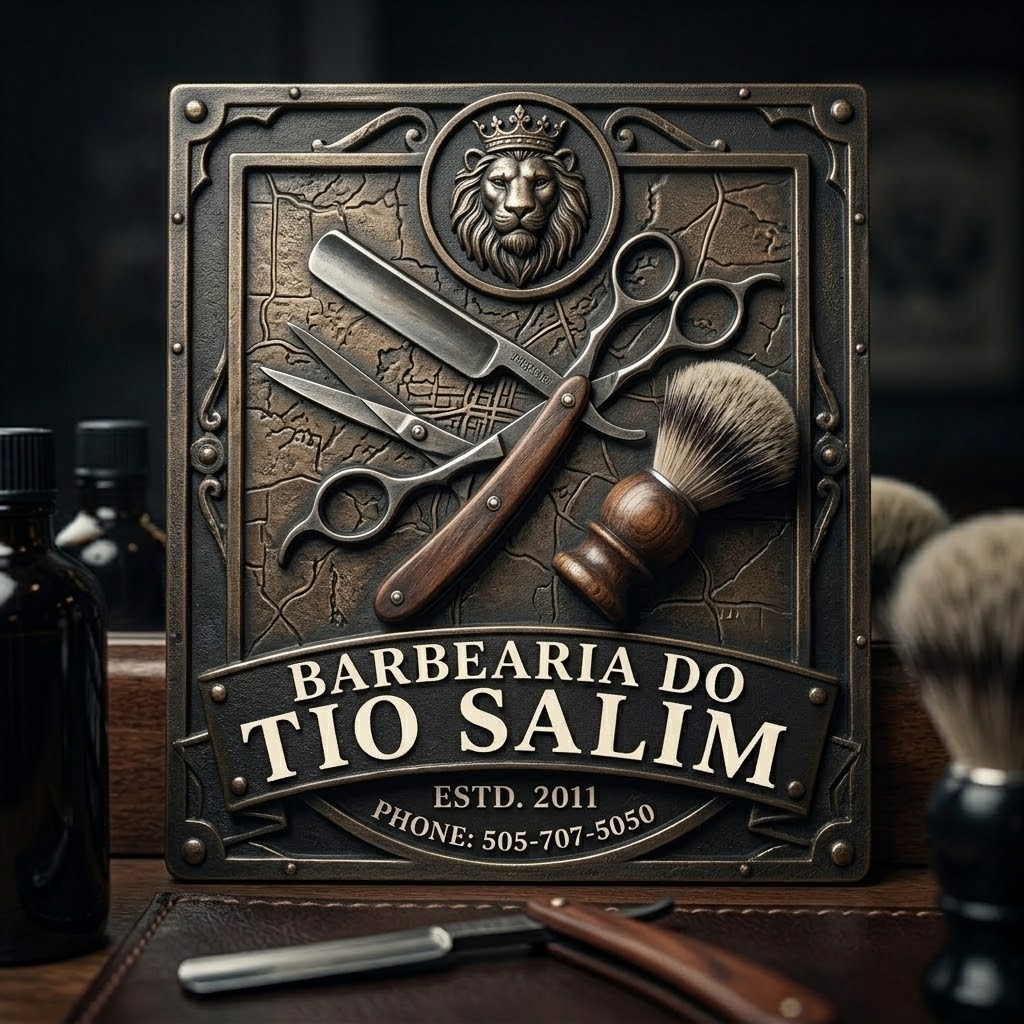
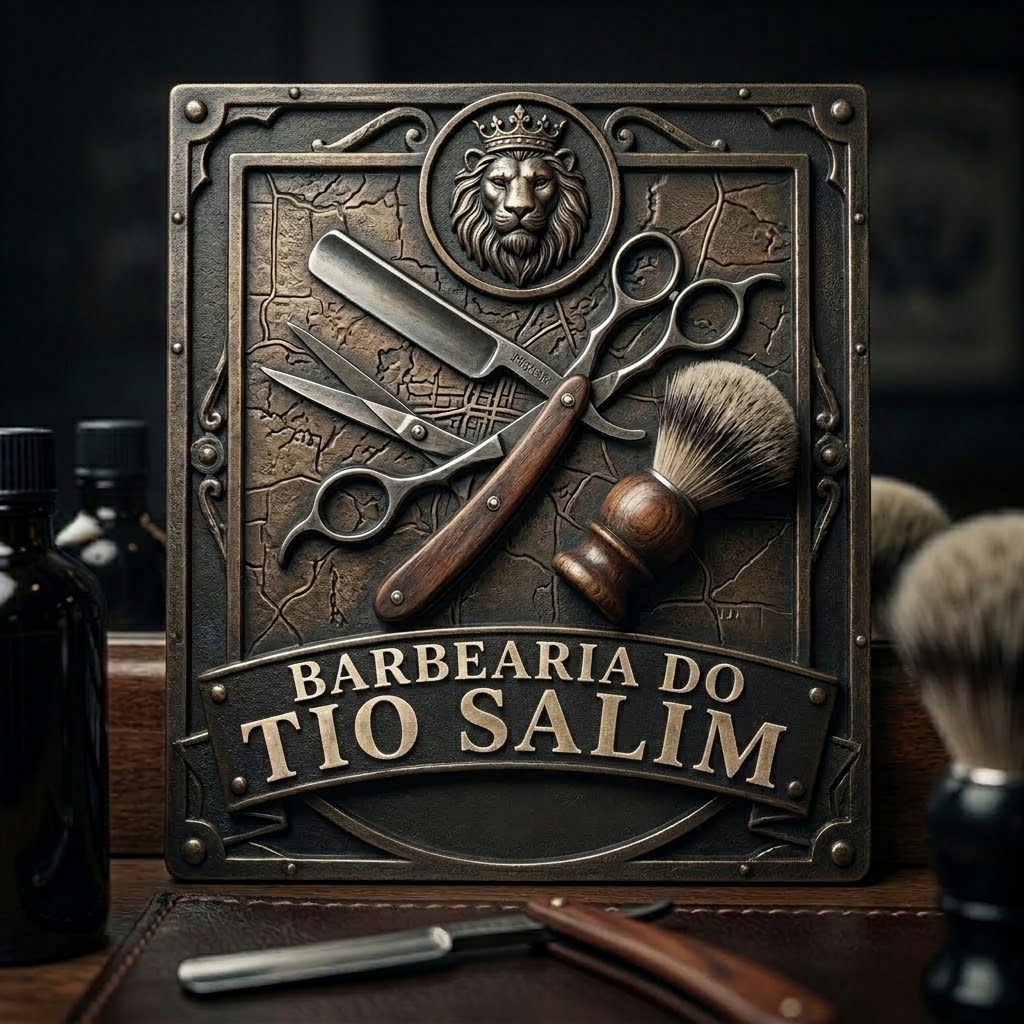
Corrige imagens da hero e ordem do carrossel no mobile
- Substitui hero-bg/hero-bg-2 pelas versões sem texto indevido
- No grid de serviços, texto passa a vir antes da foto correspondente em telas mobile

diff --git a/site/styles.css b/site/styles.css
@@ -448,7 +448,10 @@ a { color: inherit; text-decoration: none; }
   .topnav { justify-content: center; text-align: center; }
   .topnav__links { justify-content: center; }
   .services__grid { grid-template-columns: 1fr; }
-  .services__media, .services__text { order: initial; }
+  .services__grid > *:nth-child(1) { order: 2; }
+  .services__grid > *:nth-child(2) { order: 1; }
+  .services__grid > *:nth-child(3) { order: 3; }
+  .services__grid > *:nth-child(4) { order: 4; }
   .club__grid { grid-template-columns: 1fr; }
   .club__col { border-left: none; border-top: 1px solid rgba(217,199,166,.1); }
   .club__col:first-child { border-top: none; }
